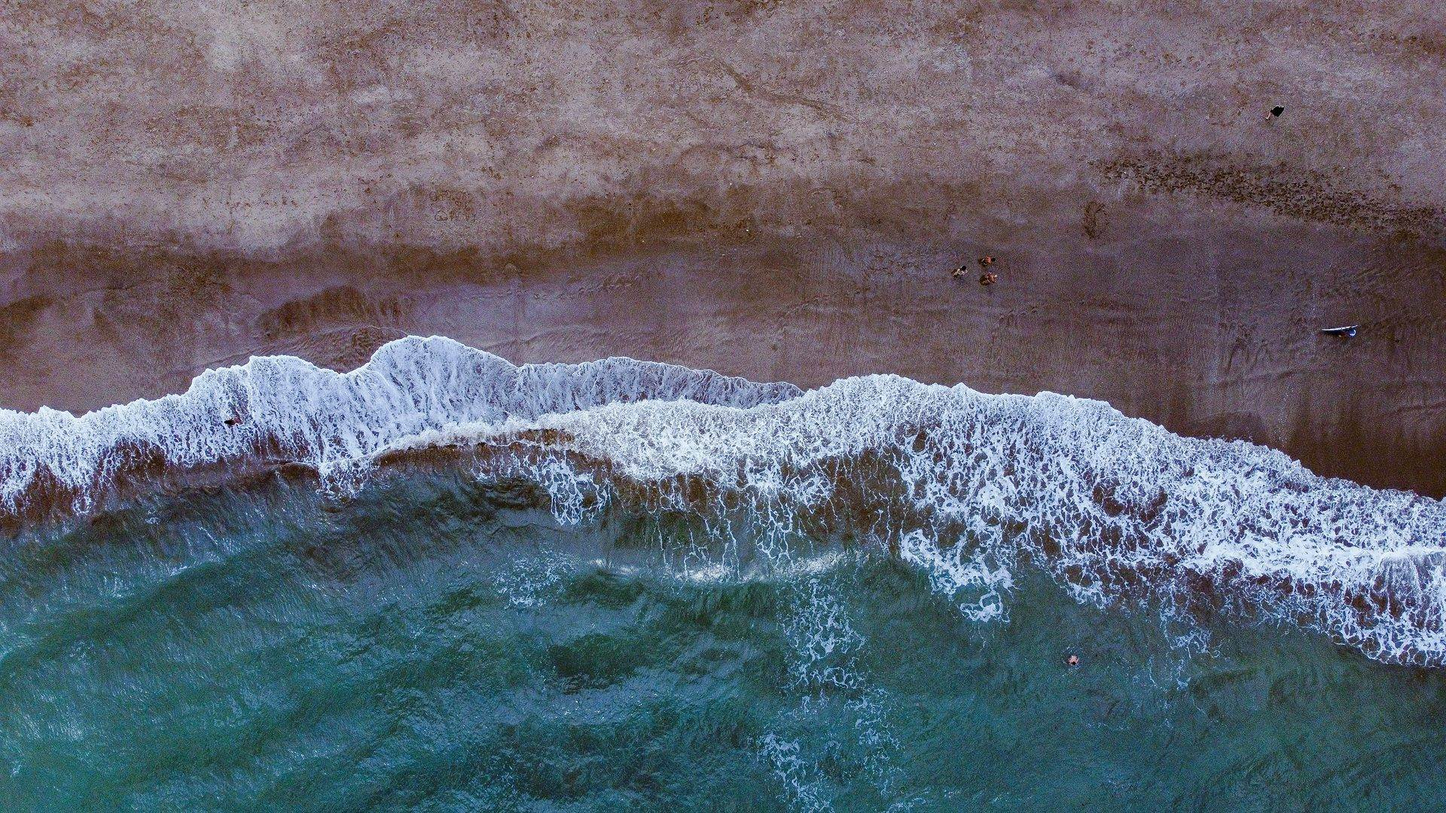
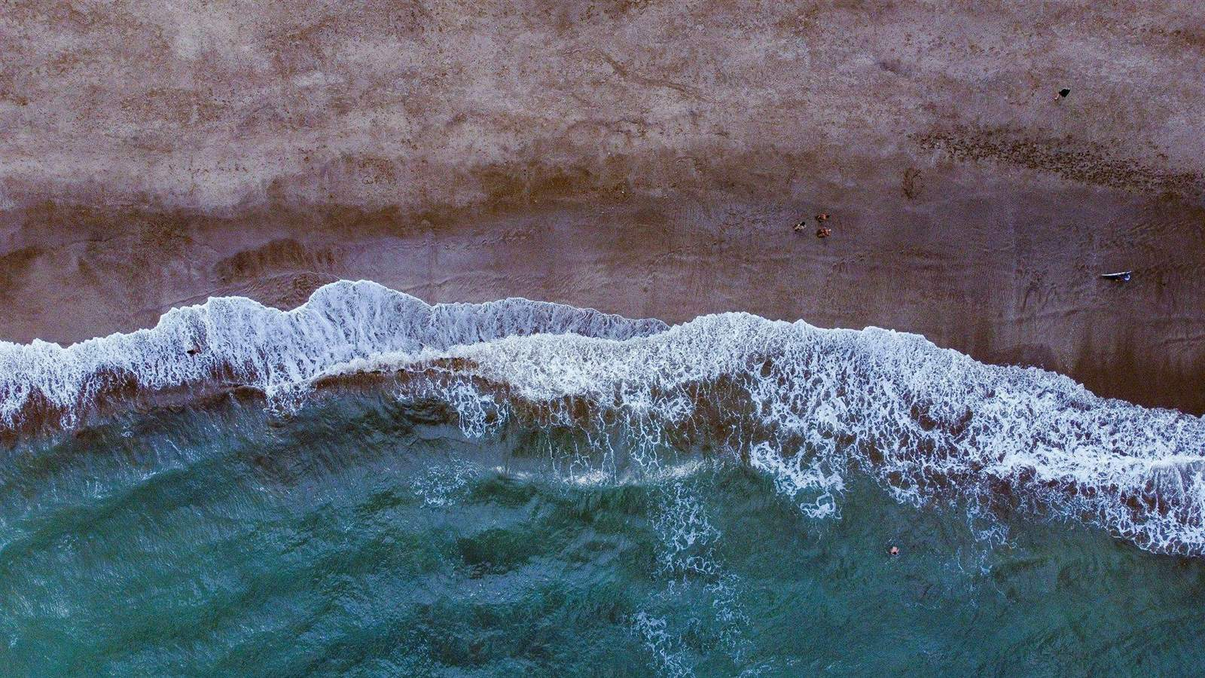
Animaciones 5

diff --git a/terromadas/js/catalog.js b/terromadas/js/catalog.js
@@ -1,6 +1,6 @@
 // Piezas compartidas entre el inicio y las páginas de cada destino.
 import { CONFIG } from './config.js';
-import { store } from './store.js';
+import { store, isDemo } from './store.js';
 import { h, $, fmtPrice, waLink, safeImg, toast } from './dom.js';
 
 export const state = { settings: CONFIG.defaults, packages: [] };
@@ -24,11 +24,33 @@ export const featured = () => state.packages
   .sort((a, b) => (b.oldPrice ? 1 : 0) - (a.oldPrice ? 1 : 0) || (b.createdAt || 0) - (a.createdAt || 0))
   .slice(0, CONFIG.maxFeatured);
 
-export async function loadCatalog() {
-  try { [state.settings, state.packages] = await Promise.all([store.getSettings(), store.listPackages()]); }
-  catch (e) { console.error(e); toast('No pudimos cargar los paquetes. Probá recargar la página.', 'err'); }
+// Copia local del catálogo (15 minutos): al volver al inicio o entrar a un destino se ve al instante,
+// y mientras tanto se pide la versión nueva. En modo demo no se usa.
+const CACHE_KEY = 'terromadas-catalog-v1', CACHE_MS = 15 * 60 * 1000;
+
+export function loadFromCache() {
+  if (isDemo) return false;
+  try {
+    const c = JSON.parse(localStorage.getItem(CACHE_KEY));
+    if (c && c.packages && Date.now() - c.t < CACHE_MS) { state.settings = c.settings; state.packages = c.packages; return true; }
+  } catch { /* sin copia */ }
+  return false;
 }
 
+function saveCache() {
+  if (isDemo) return;
+  try { localStorage.setItem(CACHE_KEY, JSON.stringify({ t: Date.now(), settings: state.settings, packages: state.packages })); }
+  catch { try { localStorage.removeItem(CACHE_KEY); } catch { /* nada */ } }
+}
+
+// Devuelve true si lo que llegó es distinto de lo que ya se estaba mostrando
+export async function loadCatalog() {
+  const prev = JSON.stringify([state.settings, state.packages]);
+  try { [state.settings, state.packages] = await Promise.all([store.getSettings(), store.listPackages()]); }
+  catch (e) { console.error(e); toast('No pudimos cargar los paquetes. Probá recargar la página.', 'err'); return false; }
+  saveCache();
+  return JSON.stringify([state.settings, state.packages]) !== prev;
+}
 export function fmtDate(iso) {
   const m = /^(\d{4})-(\d{2})-(\d{2})$/.exec(iso || '');
   return m ? `${m[3]}/${m[2]}/${m[1]}` : '';
@@ -57,7 +79,7 @@ export function card(p, showCat = false) {
   const img = safeImg(p.thumb);
   return h('article', { class: 'pcard reveal' },
     h('button', { class: 'pimg', onclick: () => openModal(p.id), 'aria-label': `Ver detalle de ${p.title}` },
-      img ? h('img', { src: img, alt: '', loading: 'lazy' }) : null,
+      img ? h('img', { src: img, alt: '', loading: 'lazy', decoding: 'async' }) : null,
       sold ? h('span', { class: 'tag sold' }, 'AGOTADO') : p.oldPrice ? h('span', { class: 'tag' }, 'PROMO') : null,
       showCat ? h('span', { class: 'tag cat' }, catOf(p.category)) : null),
     h('div', { class: 'pbody' },

diff --git a/terromadas/js/destino.js b/terromadas/js/destino.js
@@ -1,25 +1,30 @@
 import { CONFIG } from './config.js';
 import { initAnim, reveal } from './anim.js';
 import { h, $ } from './dom.js';
-import { visible, card, destinoUrl, openModal, loadCatalog, initChrome, applyCommon, mountContactForm } from './catalog.js';
+import { visible, card, destinoUrl, openModal, loadCatalog, loadFromCache, initChrome, applyCommon, mountContactForm } from './catalog.js';
 
 async function init() {
   initChrome();
   initAnim();
   const tipo = new URLSearchParams(location.search).get('tipo');
-  await loadCatalog();
-  applyCommon();
   const ok = CONFIG.categories.includes(tipo);
-  const list = ok ? visible(tipo) : [];
-  document.title = ok ? `${tipo} | Terromadas Viajes` : 'Destinos | Terromadas Viajes';
-  $('#dTitle').textContent = ok ? tipo : 'Nuestros destinos';
-  $('#dCount').textContent = ok ? (list.length ? `${list.length} ${list.length === 1 ? 'propuesta' : 'propuestas'} para vos` : '') : 'Elegí un destino para ver todas sus propuestas.';
-  const others = CONFIG.categories.filter(c => c !== tipo && visible(c).length);
-  $('#dOthers').replaceChildren(...others.map(c => h('a', { class: 'fchip', href: destinoUrl(c) }, c)));
-  const box = $('#dCards'); box.replaceChildren();
-  if (list.length) list.forEach(p => box.append(card(p)));
-  else if (ok) box.append(h('div', { class: 'empty', style: 'grid-column:1/-1' }, 'Por ahora no hay paquetes en este destino. Consultanos por WhatsApp y te armamos una propuesta.'));
-  reveal(box);
+  const paint = () => {
+    applyCommon();
+    const list = ok ? visible(tipo) : [];
+    document.title = ok ? `${tipo} | Terromadas Viajes` : 'Destinos | Terromadas Viajes';
+    $('#dTitle').textContent = ok ? tipo : 'Nuestros destinos';
+    $('#dCount').textContent = ok ? (list.length ? `${list.length} ${list.length === 1 ? 'propuesta' : 'propuestas'} para vos` : '') : 'Elegí un destino para ver todas sus propuestas.';
+    const others = CONFIG.categories.filter(c => c !== tipo && visible(c).length);
+    $('#dOthers').replaceChildren(...others.map(c => h('a', { class: 'fchip', href: destinoUrl(c) }, c)));
+    const box = $('#dCards'); box.replaceChildren();
+    if (list.length) list.forEach(p => box.append(card(p)));
+    else if (ok) box.append(h('div', { class: 'empty', style: 'grid-column:1/-1' }, 'Por ahora no hay paquetes en este destino. Consultanos por WhatsApp y te armamos una propuesta.'));
+    reveal(box);
+  };
+  const cached = loadFromCache();
+  if (cached) paint(); // se ve al instante con la copia local
+  const changed = await loadCatalog();
+  if (!cached || changed) paint();
   mountContactForm($('#contactForm'), ok ? tipo : '');
   const m = location.hash.match(/^#paquete=(.+)$/);
   if (m) openModal(decodeURIComponent(m[1]));

diff --git a/terromadas/js/public.js b/terromadas/js/public.js
@@ -1,7 +1,7 @@
 import { CONFIG } from './config.js';
 import { h, $, waLink, safeImg } from './dom.js';
 import { initAnim, reveal } from './anim.js';
-import { state, trip, waNumber, fmtDate, visible, featured, FEATURED, card, destinoUrl, openModal, loadCatalog, initChrome, applyCommon, mountContactForm } from './catalog.js';
+import { state, trip, waNumber, fmtDate, visible, featured, FEATURED, card, destinoUrl, openModal, loadCatalog, loadFromCache, initChrome, applyCommon, mountContactForm } from './catalog.js';
 
 let sel = '';
 
@@ -53,12 +53,14 @@ function applySettings() {
 
 // Fotos del inicio que pasan solas (están en img/hero; si una no existe, se salta).
 // La primera se muestra apenas carga; las demás se suman en orden y empiezan a rotar.
+let heroStarted = false;
 async function initHero() {
+  if (heroStarted) return; heroStarted = true;
   const box = $('#heroSlides');
   const slides = [];
   let cur = 0;
   const load = src => new Promise(res => { const im = new Image(); im.onload = () => res(im); im.onerror = () => res(null); im.src = src; });
-  const first = async base => { for (const ext of ['.jpg', '.jpeg', '.webp', '.png']) { const im = await load(base + ext); if (im) return im; } return null; };
+  const first = async base => { for (const ext of (/\.\w{3,4}$/.test(base) ? [''] : ['.jpg', '.jpeg', '.webp', '.png'])) { const im = await load(base + ext); if (im) return im; } return null; };
   const next = () => {
     if (document.hidden || slides.length < 2) return;
     slides[cur].classList.remove('on');
@@ -89,13 +91,14 @@ async function init() {
     window.open(waLink(waNumber(), t), '_blank', 'noopener');
   });
 
-  await loadCatalog();
-  applySettings();
-  applyCommon();
-  renderDestinos();
+  initHero(); // las fotos de la portada empiezan a bajar ya, en paralelo con los datos
+  const cached = loadFromCache();
+  const paint = () => { applySettings(); applyCommon(); renderDestinos(); };
+  if (cached) paint(); // se ve al instante con la copia local
+  const changed = await loadCatalog();
+  if (!cached || changed) paint();
   initHero();
-  mountContactForm($('#contactForm'));
-  const m = location.hash.match(/^#paquete=(.+)$/);
+  mountContactForm($('#contactForm'));  const m = location.hash.match(/^#paquete=(.+)$/);
   if (m) openModal(decodeURIComponent(m[1]));
 }
 init();

diff --git a/terromadas/js/admin.js b/terromadas/js/admin.js
@@ -217,7 +217,7 @@ async function openForm(pkg, defCat) {
       includes: lines(f.includes.value), category: f.category.value, status, featured: feat, offer: false, offerOrder: 0 };
     save.disabled = true; save.textContent = 'Guardando…';
     try {
-      if (changed) out.thumb = photos[0] ? await toDataUrl(photos[0], 480, .7) : '';
+      if (changed) out.thumb = photos[0] ? await toDataUrl(photos[0], 420, .62) : '';
       await store.savePackage(out, changed ? photos : undefined);
       const i = packages.findIndex(x => x.id === out.id); if (i >= 0) packages[i] = out; else packages.push(out);
       ptab = out.category || ptab; close(); renderPanel(); toast('Paquete guardado ✔');

diff --git a/terromadas/destino.html b/terromadas/destino.html
@@ -8,6 +8,8 @@
 <meta http-equiv="Content-Security-Policy" content="default-src 'self'; script-src 'self' https://www.gstatic.com; style-src 'self' 'unsafe-inline' https://fonts.googleapis.com; font-src https://fonts.gstatic.com; img-src 'self' data: blob: https:; connect-src 'self' https://*.googleapis.com https://*.firebaseio.com; base-uri 'self'; form-action 'none'">
 <link rel="stylesheet" href="css/style.css">
 <link rel="icon" type="image/png" href="img/isotipo-rojo.png">
+<link rel="preconnect" href="https://fonts.googleapis.com">
+<link rel="preconnect" href="https://fonts.gstatic.com" crossorigin>
 </head>
 <body>
 

diff --git a/terromadas/js/config.js b/terromadas/js/config.js
@@ -10,7 +10,7 @@ export const CONFIG = {
   maxFeatured: 8,
   // Fotos del inicio: están en el código (carpeta img/hero), no se cambian desde el panel
   // Se escriben sin extensión: sirve .jpg, .jpeg o .webp. Para sumar más fotos, agregalas acá
-  heroSlides: ['img/hero/lago', 'img/hero/mar', 'img/hero/rio', 'img/hero/catedral'],
+  heroSlides: ['img/hero/lago.jpg', 'img/hero/mar.jpg', 'img/hero/rio.jpg', 'img/hero/catedral.jpg'],
   heroInterval: 2500, // milisegundos entre foto y foto
   categories: ['Argentina', 'Brasil', 'Caribe', 'Salidas grupales'],
   defaults: {

diff --git a/terromadas/index.html b/terromadas/index.html
@@ -9,6 +9,9 @@
 <link rel="stylesheet" href="css/style.css">
 <link rel="icon" type="image/png" href="img/isotipo-rojo.png">
 <script src="js/intro-check.js"></script>
+<link rel="preconnect" href="https://fonts.googleapis.com">
+<link rel="preconnect" href="https://fonts.gstatic.com" crossorigin>
+<link rel="preload" as="image" href="img/hero/lago.jpg" fetchpriority="high">
 </head>
 <body>
 <div id="intro" aria-hidden="true"><img class="intro-logo" src="img/logo-blanco.png" alt=""><span class="intro-script">Viví experiencias únicas.</span><i class="intro-bar"></i></div>
